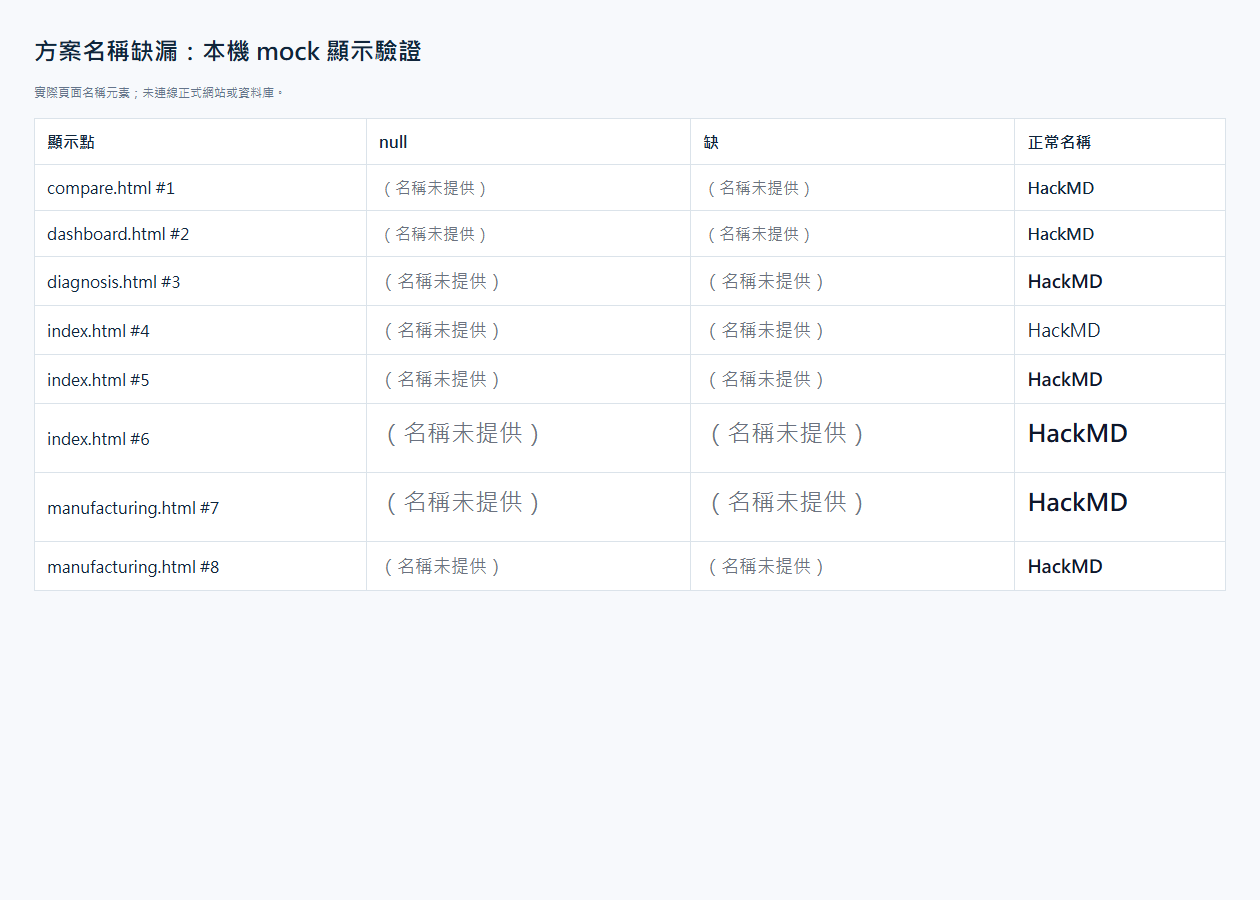
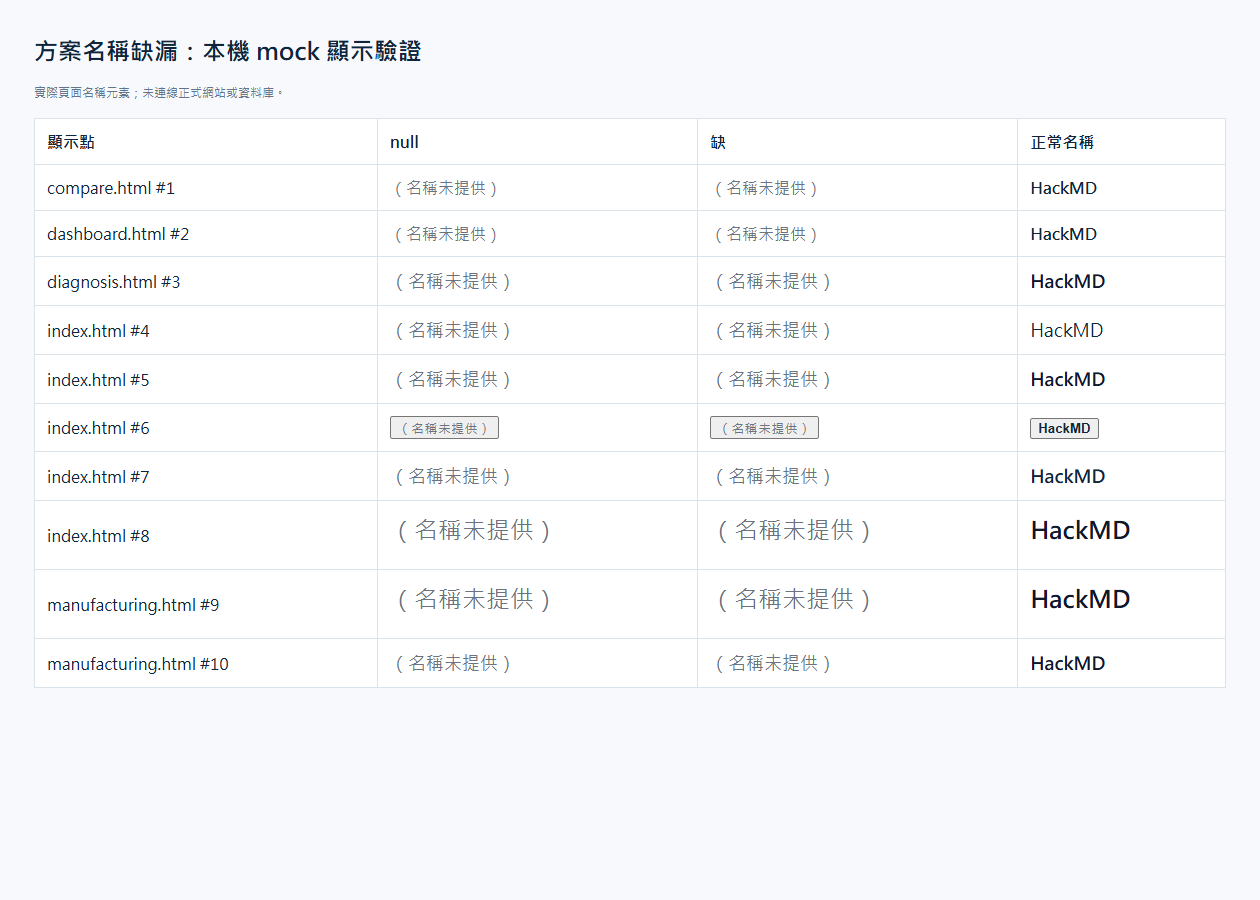
docs: sync main integration and company name validation

diff --git a/_handover/SYNC_solution-name-missing_2026-10-20.md b/_handover/SYNC_solution-name-missing_2026-10-20.md
@@ -1,16 +1,18 @@
 # SYNC：方案名稱缺漏顯示 / MCP 1.2.1
 
-依據：完整閱讀附件 `SPEC_方案名稱缺漏顯示_2026-10-19.md` 後實作。使用者補充指示優先：本 PR 僅改 main 已有頁面；不修改尚未合併的「查公司」分支，只列出接續套用位置。26 筆資料與 SOL-0075 為規格提供的背景，本次未讀寫正式資料庫。
+依據：完整閱讀附件 `SPEC_方案名稱缺漏顯示_2026-10-19.md` 後實作。使用者最新指示優先：PR #263 已把查公司功能併入 main；本次以 git merge origin/main 整合，直接在 PR #262 完成公司頁名稱顯示，不修改另一個對話的原工作目錄。26 筆資料與 SOL-0075 為規格提供的背景，本次未讀寫正式資料庫。
 
 ## 1. 分支、隔離與交付
 
 - Branch：`fix/solution-name-missing-2026-10-19`
 - Base：執行 `git fetch origin main` 後確認最新 `origin/main`、`FETCH_HEAD` 與本任務起點皆為 `d392cbc1702e23536227df453ffda22980e4479a`。
+- 合併更新：`git fetch origin main` 取得 `30fded63df3c99b8d20a8a87f7f9ede6e1658489`，接著執行 `git merge origin/main`；merge commit：[79670cf3a6a34788d0f89138537771a2b1095006](https://github.com/Pcc329/solution-finder/commit/79670cf3a6a34788d0f89138537771a2b1095006)。沒有 rebase 或 force push。
+- 公司頁修正 commit：[621a5fb751a19d47cb7b0ff596abec130574b66e](https://github.com/Pcc329/solution-finder/commit/621a5fb751a19d47cb7b0ff596abec130574b66e)
 - 初次實作 commit：[7d42a40c2d2da0a2684b135798aba1a56ab6a268](https://github.com/Pcc329/solution-finder/commit/7d42a40c2d2da0a2684b135798aba1a56ab6a268)
 - 審查修正 commit：[6db3be291535400e4d8e33babf1049611d84da93](https://github.com/Pcc329/solution-finder/commit/6db3be291535400e4d8e33babf1049611d84da93)
 - PR：[https://github.com/Pcc329/solution-finder/pull/262](https://github.com/Pcc329/solution-finder/pull/262)，base `main`，保持 open，未 merge。
 - 開始前已執行 `git status`：原工作目錄 `solution-finder-contact-info` 在 `feat/company-frontend`，沒有未提交修改。仍另建同層 worktree `solution-name-missing`，避免切換或修改另一個對話使用的分支。
-- 原工作目錄維持乾淨，HEAD 維持 `25c607c8ba3988042d35e395bb6c6c653b0a5d22`；未 commit、覆蓋或帶入「查公司」功能。
+- 初次任務時原工作目錄 HEAD 為 `25c607c8ba3988042d35e395bb6c6c653b0a5d22`。本次仍只操作本任務 worktree；查公司功能改從最新 main 合併取得，沒有操作原工作目錄或 feat/company-frontend 分支。
 - 不修改資料庫、不新增遷移、不升級套件；所有 `api/*.js` 保持原樣。未改搜尋篩選、加權分數、工具輸入參數或「顯示已下架方案」行為。
 
 ## 2. 新增與修改檔案
@@ -25,10 +27,11 @@
 | `public/diagnosis.html` | 舊探索頁卡片、AI 摘要輸入名稱、同分同價排序；雖已有 redirect，仍處理原始頁面 |
 | `public/manufacturing.html` | 方案卡片、詳情、AI 推薦輸入名稱、同分排序 |
 | `supabase/functions/sf-mcp/index.ts` | 版本 1.2.1；四種名稱輸出、明確的 name_missing schema；摘要與 42501 處理 |
-| `tests/solution-name.test.mjs`（新增） | 28 項（含 ROI state／樣式回歸）：缺值、完整佔位字、正常名稱保留、排序、共用資源引入 |
+| `tests/solution-name.test.mjs`（新增） | 35 項（含 ROI state／樣式回歸及公司清單 7 項）：缺值、完整佔位字、正常名稱保留、排序、共用資源引入 |
 | `tests/sf-mcp/sf-mcp-v1-2.test.mjs` | 保留既有回歸；新增四種名稱輸出與 schema、八工具未授權、縣市、摘要、分數與 RPC 順序測試 |
 | `_handover/SYNC_solution-name-missing_2026-10-20.md`（新增） | 本交接文件 |
-| `_handover/solution-name-missing_mock.png`（新增） | 24 組瀏覽器 mock 顯示截圖 |
+| `_handover/solution-name-missing_mock.png`（新增） | 30 組瀏覽器 mock 顯示截圖（含公司頁兩元素） |
+| `_handover/company-name-missing_mock.png`（新增） | 實際 renderCompany JSX 的合成資料顯示截圖；驗證名稱及共用缺漏樣式，不代表完整網站版面驗收 |
 | `_handover/solution-name-missing_mock-responses.json`（新增） | 實際 SDK mock 呼叫的四工具完整回應、未授權回應與 mock 伺服器日誌 |
 
 佔位字集中於 `public/solution-name.js:3`：`缺`、`缺漏`、`待補`、`無`、`-`、`—`、`N/A`、`NA`、`null`、`?`、`？`。以 trim 後的值判斷；正常名稱回傳原值，不自行 trim 或改名。依 PR #262 審查修正，MCP 在 `supabase/functions/sf-mcp/index.ts:15` 內嵌相同清單與兩個函式，讓 Supabase Dashboard 可只貼上單一 index.ts。兩份定義由測試分別載入，斷言清單完全相同且對相同測試值的判斷與顯示結果一致；Edge Function 僅保留 npm:/jsr: 匯入，不依賴本地相對路徑。
@@ -37,20 +40,22 @@
 
 | 檔案＋行號 | 顯示位置 |
 | --- | --- |
-| `public/index.html:160` | ROI 試算視窗名稱；`openROIModal` 在 `:1010` 先以 `displaySolutionName` 正規化 state.name，並在 `:1011` 保留 nameMissing 旗標以維持缺漏樣式 |
-| `public/index.html:1637` | 首頁搜尋方案卡片 |
-| `public/index.html:1744` | 首頁方案詳情標題 |
+| `public/index.html:160` | ROI 試算視窗名稱；`openROIModal` 在 `:1115` 先以 `displaySolutionName` 正規化 state.name，並在 `:1116` 保留 nameMissing 旗標以維持缺漏樣式 |
+| `public/index.html:1758` | 首頁搜尋方案卡片 |
+| `public/index.html:2027` | 首頁方案詳情標題 |
+| `public/index.html:1957` | 公司清單可點擊的方案名稱按鈕 |
+| `public/index.html:1958` | 公司清單無詳細頁／已下架方案的純文字名稱 |
 | `public/compare.html:389` | 比較表的方案名稱列 |
 | `public/dashboard.html:2087` | 近期更新列表的方案名稱（`type !== 'case'`） |
 | `public/diagnosis.html:641` | 舊智能探索方案卡片 |
 | `public/manufacturing.html:1472` | 方案探索詳情標題 |
 | `public/manufacturing.html:1964` | 方案探索推薦卡片（兩種來源共用） |
 
-額外的 AI 文字顯示輸入也先經過 helper，避免把原始佔位字送去生成摘要：`public/index.html:1033`、`public/compare.html:432`、`public/diagnosis.html:695`、`public/manufacturing.html:2442`。只建立顯示用 payload，不修改 allData、原始資料或 sessionStorage 中的方案。
+額外的 AI 文字顯示輸入也先經過 helper，避免把原始佔位字送去生成摘要：`public/index.html:1138`、`public/compare.html:432`、`public/diagnosis.html:695`、`public/manufacturing.html:2442`。只建立顯示用 payload，不修改 allData、原始資料或 sessionStorage 中的方案。
 
 已檢索 `public/` 全部 HTML/JS；其餘 `item.name` 為獎項、分類、案例或公司名稱，`item.s` 的其他用途為搜尋比對、評分、key 或原始比較資料，不是直接顯示點。`sources.html`、`strategy-guide.html`、`feedback.html` 沒有方案名稱列表。
 
-排序：首頁 `public/index.html:835` 起，保留原相關性／價格／公司排序優先條件，只在相同分數、價格或公司組內把缺漏名稱放最後；名稱 A-Z 則先區分缺漏，再比較正常原名，缺漏彼此維持穩定順序。`public/diagnosis.html:571`、`public/manufacturing.html:1870` 同樣只處理同組順序。比較頁保留使用者選取順序，儀表板保留近期更新順序。MCP 保留資料庫分頁與排名順序，未修改搜尋或 SQL。
+排序：首頁 `public/index.html:940` 起，保留原相關性／價格／公司排序優先條件，只在相同分數、價格或公司組內把缺漏名稱放最後；名稱 A-Z 則先區分缺漏，再比較正常原名，缺漏彼此維持穩定順序。`public/diagnosis.html:571`、`public/manufacturing.html:1870` 同樣只處理同組順序。比較頁保留使用者選取順序，儀表板保留近期更新順序。MCP 保留資料庫分頁與排名順序，未修改搜尋或 SQL。
 
 ### MCP 名稱輸出與 schema
 
@@ -61,44 +66,46 @@
 - `:214` 起的 solution/company outputSchema 明確要求 `name: string`、`name_missing: boolean`；詳情另保留 `solution_name: string`。其他原有欄位透過 passthrough 保留。
 - `:36`：`SERVER_VERSION = '1.2.1'`。未更動工具輸入 schema／參數。
 
-## 3. 「查公司」分支的後續套用位置
+## 3. 「查公司」整合後的名稱顯示位置
 
-分支：`feat/company-frontend`；本次唯讀參考 HEAD `25c607c8ba3988042d35e395bb6c6c653b0a5d22`。依使用者明確指示，不採用附件「同步修改該分支」一項，改由該功能 PR 自行套用以下位置。下列行號屬於此分支，與本 PR 行號不同。
+PR #263 已合併至 main，本次 merge main 後，原先待其他分支處理的位置已在本 PR 完成：
 
-| 該分支檔案＋行號 | 接續工作 |
+| 本分支檔案＋行號 | 處理方式 |
 | --- | --- |
-| `public/index.html:8` 起 head | 整合本 PR 後確認載入 `/solution-name.js`、`/solution-name.css`，維持 `<script type="text/babel">` 原樣 |
-| `public/index.html:1946` | `renderCompany` 中可點擊的方案名稱按鈕：改用 `displaySolutionName(solution.name)`，缺漏加 `sf-name-missing` |
-| `public/index.html:1947` | 無詳細頁／已下架方案的純文字名稱：相同處理；使用者提供的 SOL-0075 會走這個分支 |
-| `public/index.html:1931` | `rows.filter(...)` 後，在同來源的可見方案中穩定排列缺漏名稱至最後；維持 `showDelisted` 條件、預設值與來源群組排序 |
-| `public/index.html:158、1748、2016` | 整合本 PR 既有 ROI／首頁卡片／詳情顯示修改，避免解 conflict 時還原 helper |
+| `public/index.html:1957` | 可點擊名稱：`displaySolutionName(solution.name)`；缺漏加 `sf-name-missing`，保留 openCompanySolution 點擊行為 |
+| `public/index.html:1958` | 純文字名稱：同樣套用 helper 與缺漏 class，涵蓋已下架／無詳細頁方案 |
+| `public/index.html:1941` | 保留 showDelisted 篩選，之後穩定排序同來源組內的缺漏名稱至最後；不改來源群組順序或原始 solutions 陣列 |
+| `public/index.html:2027` | 方案詳情標題仍套用 helper，並保留最新 main 的公司查詢按鈕、companyLoading 與 aria-label |
+| `public/index.html:160、1115、1116、1758` | 保留 ROI 名稱／缺漏旗標、首頁卡片顯示；相關性、價格及公司名稱同組排序改動均保留 |
 
-由「查公司」PR 在整合後驗收：搜尋「元翰智慧科技有限公司」（90541148），勾選「顯示已下架方案」，確認 SOL-0075 顯示灰色、不加粗的「（名稱未提供）」並在同來源組末端；取消勾選後照原行為隱藏。**本 PR 未宣稱該未合併頁面已修正或實測。**
+已重新搜尋 renderCompany：直接顯示方案名稱僅有上表兩處；`solution_id` 是識別碼、company_name 是公司名稱，不套用名稱缺漏規則。由公司清單打開的詳情共用 `renderDetail`，已保留原有 displaySolutionName。公司搜尋候選頁只顯示公司名稱，沒有額外方案名稱顯示點。
+
+本機合成資料已覆蓋 null／「缺」、可點擊／純文字、showDelisted 關／開、組內順序及點擊詳情 handler。正式資料的「元翰智慧科技有限公司」（90541148）／SOL-0075 尚未實際查詢；部署後仍需驗證真實案例。這項整合不再留待 feat/company-frontend 分支。
 
 ## 4. 驗收逐項結果與測試輸出
 
-**僅完成本機 mock／靜態驗證，尚未真實環境驗證。** 未部署正式環境、未 merge、未執行任何資料遷移；Edge Function 的正式部署與正式網站／MCP 實測仍待後續部署流程。GitHub 的 Vercel 自動 Preview 檢查在實作 commit 7d42a40 顯示 success；此建置結果不等於網站或 MCP 實際驗收。
+**僅完成本機 mock／靜態驗證，尚未真實環境驗證。** 未部署正式環境、未將 PR #262 合併至 main、未執行任何資料遷移；Edge Function 的正式部署與正式網站／MCP 實測仍待後續部署流程。GitHub 的 Vercel 自動 Preview 檢查在實作 commit 7d42a40 顯示 success；此建置結果不等於網站或 MCP 實際驗收。
 
 | 規格驗收項目 | 結果與依據 |
 | --- | --- |
 | 缺漏判斷單元測試 | PASS；null、undefined、空字串、空白及全部 11 個佔位字均通過，含前後空白；律果簽、HackMD、AI 及正常名稱的前後空白保持原值 |
-| 全部前端方案名稱顯示點 | PASS（main 範圍）；8 個直接元素已列於上表；未合併「查公司」依使用者指示留交接 |
-| null／「缺」mock 渲染 | PASS；8 元素 × 3 輸入共 24 組，16 組缺漏皆為「（名稱未提供）」、`rgb(107, 114, 128)`、字重 `400`；8 組正常名稱保持 HackMD |
+| 全部前端方案名稱顯示點 | PASS；main 已包含查公司，10 個直接元素已列於上表，沒有待其他分支套用的名稱位置 |
+| null／「缺」mock 渲染 | PASS；10 元素 × 3 輸入共 30 組，20 組缺漏皆為「（名稱未提供）」、`rgb(107, 114, 128)`、字重 `400`；10 組正常名稱保持 HackMD；另有完整 renderCompany 的 null／缺 × 開關兩狀態 mock |
 | MCP 名稱及 outputSchema | PASS；20 種輸入各跑四個名稱回傳位置；正常 false、缺漏 true；刪除 name_missing 或傳字串均無法通過實際 SDK schema 驗證 |
 | MCP 未授權 | PASS；八工具均先 touch 一次，42501 回傳 isError 並停止 handler，不執行後續查詢／whoami；伺服器 mock 日誌有紀錄，用戶回應不含 SQL、錯誤碼或私人技術細節 |
 | 其他 touch 錯誤 | PASS；一般錯誤、連線例外仍執行工具並記錄；原有限流 observe-only 行為保留 |
 | summary_line 台北市 → 臺北市 | PASS；兩搜尋工具均驗證臺北市、臺中市、臺東縣；RPC 原輸入及 keyword 保持不變 |
 | describe_data 完整第一句 | PASS；目錄 11 節皆取完整句，略過無句尾的引導標題；mapping 不再顯示「需求 → keyword：。」；all 與各節原文保持相同 |
-| 既有測試、搜尋案例產生器 | PASS；全部 219 項測試成功，28 組產生器成功；產生的 SQL 未執行，因此不宣稱完成資料庫 parity 實測 |
+| 既有測試、搜尋案例產生器 | PASS；全部 241 項測試成功，28 組產生器成功；產生的 SQL 未執行，因此不宣稱完成資料庫 parity 實測 |
 | SERVER_VERSION | PASS；1.2.1，whoami 的實際 SDK mock 回傳亦驗證此版本 |
 | 禁止變更項目 | PASS；無資料庫／遷移／套件／API／輸入參數修改，保留搜尋分數及 MCP RPC 順序；未改顯示已下架方案開關 |
 
-測試命令與輸出摘要（審查修正 commit 6db3be2；所有測試採合成資料，沒有正式網路／資料庫查詢）：
+測試命令與輸出摘要（公司頁修正 commit 621a5fb；所有測試採合成資料，沒有正式網路／資料庫查詢）：
 
 ```text
 node --test tests/*.test.mjs tests/sf-mcp/sf-mcp-v1-2.test.mjs
-tests 219
-pass 219
+tests 241
+pass 241
 fail 0
 cancelled 0
 skipped 0
@@ -114,14 +121,18 @@ node ../solution-name-missing/tests/sf-mcp/sf_search_parity_gen_test.js
 
 ```text
 node ../_solution_name_validation/visual-check.cjs
-PASS: 9 inline scripts parse; 24 real-source mock elements render;
-16 missing elements gray rgb(107,114,128), weight 400; 8 valid names retained.
+PASS: 9 inline scripts parse; 30 real-source mock elements render;
+20 missing elements gray rgb(107,114,128), weight 400; 10 valid names retained.
+
+node ../_solution_name_validation/company-page-check.cjs
+PASS: actual renderCompany JSX, null/缺 × showDelisted false/true, clickable and plain names,
+missing-last stable order, detail button handlers, gray text and weight 400.
 
 git diff --check
 exit 0
 ```
 
-瀏覽器驗證以實際來源碼的 JSX／HTML 名稱元素搭配本次共用 CSS 渲染，並解析全站內嵌腳本；不是完整網站端到端流程，也未模擬正式 OAuth。截圖：[mock 顯示驗證](solution-name-missing_mock.png)。完整本機輸出在同層 `_solution_name_validation/review-tests.txt`，該 QA 目錄未納入 PR。Node 的既有 module-type／experimental warnings 不影響通過；沒有為消除警告而改套件或專案模組設定。
+瀏覽器驗證以實際來源碼的 JSX／HTML 名稱元素搭配本次共用 CSS 渲染，並解析全站內嵌腳本；不是完整網站端到端流程，也未模擬正式 OAuth。截圖：[mock 顯示驗證](solution-name-missing_mock.png)。完整本機輸出在同層 `_solution_name_validation/company-merge-tests.txt`，該 QA 目錄未納入 PR。Node 的既有 module-type／experimental warnings 不影響通過；沒有為消除警告而改套件或專案模組設定。
 
 ## 5. MCP mock 範例回應
 
@@ -164,7 +175,7 @@ exit 0
 伺服器 mock 日誌：`[sf-mcp] count_solutions sf_mcp_touch 失敗： private permission detail`。用戶回應沒有上述技術內容，工具 handler 未執行。
 
 
-## 6. PR #262 審查修正
+## 6. PR #262 前次審查修正（歷史紀錄，行號及測試數為該次結果）
 
 修正 commit：[6db3be291535400e4d8e33babf1049611d84da93](https://github.com/Pcc329/solution-finder/commit/6db3be291535400e4d8e33babf1049611d84da93)。沿用本 PR、同一分支，沒有另開 PR 或 merge。
 
@@ -175,3 +186,13 @@ exit 0
 本次變更檔案：`supabase/functions/sf-mcp/index.ts`、`public/index.html`、`public/solution-name.js`（更新說明註解）、`tests/sf-mcp/sf-mcp-v1-2.test.mjs`、`tests/solution-name.test.mjs` 與本 SYNC。上文的現況說明、行號及測試數均已同步更新。
 
 驗證結果：全部 219 項測試通過（原 216 項及本次新增三項）；瀏覽器 mock 再驗證 9 個內嵌腳本解析、24 組名稱元素渲染均通過；`git diff --check` 通過。既有 28 組搜尋案例產生器前次已通過，本次未改搜尋邏輯，未重跑或執行其 SQL。仍僅完成本機 mock／靜態驗證，沒有正式 Dashboard 部署或正式環境實測。
+
+
+## 7. 合併 main／PR #263 與公司頁驗證
+
+- 開始時工作目錄乾淨，位於 `fix/solution-name-missing-2026-10-19`。依指定方式 `git merge origin/main`，merge commit 79670cf 的兩個 parent 分別為原分支 541be9e 與最新 main 30fded6；`git merge-base --is-ancestor origin/main HEAD` 成功。未使用 rebase、未 force push，也未將 PR #262 合併至 main。
+- 唯一衝突在 `public/index.html` 的方案詳情標題／公司連結；解法同時保留本 PR 的灰色名稱 helper 與 main 的查公司按鈕、載入指示及無統編時的純文字公司名稱。其餘查公司內容由 Git 正常合併。相對最新 origin/main，api/companies.js、_lib/company-search.js、public/sources.html、vercel.json 及既有公司搜尋測試沒有額外差異。
+- 本次功能修正 commit：621a5fb751a19d47cb7b0ff596abec130574b66e；變更僅 public/index.html、tests/solution-name.test.mjs，另更新本 SYNC 與 mock 證據圖。
+- 新增 7 項公司清單測試：null／「缺」／HackMD 各驗證 button 與 p 的實際顯示表達式及缺漏 class，共 6 項；另 1 項執行實際 visible filter/sort，驗證開關、穩定末尾排序與不改原陣列。
+- 合併後所有測試：241 pass、0 fail、0 skipped（含 main 新增的公司搜尋測試、原有 MCP 單檔部署／兩份定義一致性及 ROI 測試）。9 個內嵌腳本解析與 30 組來源元素渲染通過。另以 Babel 編譯完整實際 renderCompany JSX，驗證 null／缺 × showDelisted false／true、兩種名稱元素、詳情按鈕 handler、灰色 rgb(107,114,128) 與字重 400。
+- 僅本機 mock／靜態驗證，沒有正式網站／MCP 實測。截圖：[公司頁 JSX mock](company-name-missing_mock.png)；未載入完整網站 Tailwind 版面，此證據圖只用於名稱與缺漏樣式驗證。
